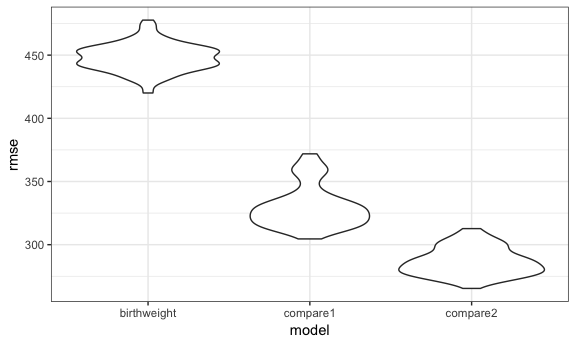
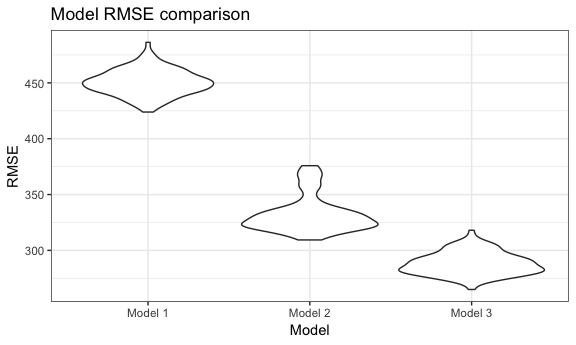
make visual changes and add final comments

diff --git a/p8105_hw6_dry2115.md b/p8105_hw6_dry2115.md
@@ -1,11 +1,13 @@
 p8105\_hw5\_dry2115
 ================
 Dayoung Yu
-2018-11-26
+2018-11-27
 
 ### Problem 1
 
-Read in and clean *Washington Post* homicide data:
+This problem looks at homicide data across 50 major U.S. cities. Mainly, we will be looking at comparisons between homicides of white victims versus non-white vicitims.
+
+##### Read in and clean *Washington Post* homicide data:
 
 ``` r
 homicide_df = 
@@ -17,36 +19,22 @@ homicide_df =
       disposition == "Open/No arrest"        ~ "unresolved",
       disposition == "Closed by arrest"      ~ "resolved"),
     victim_race = case_when(
-      victim_race == "White" ~ "white",
-      victim_race != "White" ~ "non-white"),
+      victim_race != "White" ~ "nonwhite",
+      victim_race == "White" ~ "white"),
     victim_age = as.numeric(victim_age)
     ) %>%
   filter(!(city_state %in% c("Dallas, TX", "Phoenix, AZ", "Kansas City, MO", "Tulsa, AL")))
-## Parsed with column specification:
-## cols(
-##   uid = col_character(),
-##   reported_date = col_integer(),
-##   victim_last = col_character(),
-##   victim_first = col_character(),
-##   victim_race = col_character(),
-##   victim_age = col_integer(),
-##   victim_sex = col_character(),
-##   city = col_character(),
-##   state = col_character(),
-##   lat = col_double(),
-##   lon = col_double(),
-##   disposition = col_character()
-## )
 ```
 
 The data set homicide\_df contains gathered homicide data in 50 large U.S. cities, e.g., victim name and demographics, location, and disposition (whether case was closed and whether there was an arrest). The following changes were made: a new "city, state" variable was created, a new "resolution" variable was created defining whether the case was resolved or unresolved, and the "victim\_race" was categorized as white or non-white. In addition, some cities were omitted due to missing data and error.
 
-Logic regression for Baltimore homicides:
+##### Logic regression for Baltimore homicides:
 
 ``` r
 baltimore_df = homicide_df %>%
   filter(city == "Baltimore") %>%
-  mutate(resolved = as.numeric(resolution == "resolved")) %>%
+  mutate(resolved = as.numeric(resolution == "resolved"),
+         victim_race = fct_relevel(victim_race, "white")) %>%
   select(resolved, victim_age, victim_sex, victim_race)
 
 baltimore_glm = baltimore_df %>%
@@ -66,29 +54,30 @@ ci_baltimore = as.tibble(confint(baltimore_glm)) %>%
 
 
 cbind(or_baltimore, ci_baltimore) %>%
-  filter(term == "victim_racewhite") %>%
-  mutate(term = str_replace(term, "white", ": White")) %>%
+  filter(term == "victim_racenonwhite") %>%
+  mutate(term = str_replace(term, "nonwhite", ": non-white")) %>%
   knitr::kable(digits = 3)
 ```
 
-| term                |  log\_OR|    OR|  ci\_low|  ci\_high|
-|:--------------------|--------:|-----:|--------:|---------:|
-| victim\_race: White |     0.82|  2.27|    1.614|     3.203|
+| term                    |  log\_OR|     OR|  ci\_low|  ci\_high|
+|:------------------------|--------:|------:|--------:|---------:|
+| victim\_race: non-white |    -0.82|  0.441|    0.312|      0.62|
 
-The table above shows the adjusted odds ratio and 95% confidence interval for solving homicides of whites vs. non-whites. Homicide cases of white victims have 2.27 times the odds of being resolved compared to homicide cases of non-white victims in the city of Baltimore.
+The table above shows the adjusted odds ratio and 95% confidence interval for solving homicides of non-white victims vs. white victims. Homicide cases of non-white victims have 0.441 times the odds of being resolved compared to homicide cases of white victims, meaning non-white homicides are less likely to be resolved in the city of Baltimore.
 
-Logic regression by city:
+##### Logic regression by city:
 
 ``` r
 city_glm = homicide_df %>%
-  mutate(resolved = as.numeric(resolution == "resolved")) %>%
+  mutate(resolved = as.numeric(resolution == "resolved"),
+         victim_race = fct_relevel(victim_race, "white")) %>%
   group_by(city_state) %>%
   nest() %>%
   mutate(models = map(data, ~glm(resolved ~ victim_age + victim_sex + victim_race, data = ., family = binomial())),
          models = map(models, broom::tidy)) %>%
   select(-data) %>%
   unnest() %>%
-  filter(term == "victim_racewhite") %>%
+  filter(term == "victim_racenonwhite") %>%
   mutate(OR = exp(estimate),
          ci_low = exp(estimate - 1.96*std.error),
          ci_high = exp(estimate + 1.96*std.error)) %>%
@@ -96,7 +85,7 @@ city_glm = homicide_df %>%
   
 ```
 
-plot of ORs and CIs for each city
+##### Plot of ORs and CIs for each city:
 
 ``` r
 
@@ -105,9 +94,10 @@ city_glm %>%
   ggplot(aes(x = city_state, y = OR)) +
   geom_point() +
   geom_errorbar(aes(ymin = ci_low, ymax = ci_high)) +
+  geom_hline(yintercept = 1, color = "red") +
    theme(axis.text.x = element_text(angle = 80, hjust = 1)) +
   labs(
-    title = "Odds ratios for solving homicides in white vs. non-white victims",
+    title = "Odds ratios for solving homicides in non-white vs. white victims",
     x = "City, State",
     y = "Estimated odds ratio"
   )
@@ -115,11 +105,13 @@ city_glm %>%
 
 <img src="p8105_hw6_dry2115_files/figure-markdown_github/unnamed-chunk-4-1.png" width="90%" />
 
-The plot above shows odds ratios and their confidence levels for solving homicides for white vs. non-white victims in 50 major U.S. cities. We can see that all odss ratios and confidence intervals are above zero, meaning that white victims have better odds of having a resolved case than non-white victims in all 50 major cities. The difference in odds between white and non-white victims is highest in Boston, but the confidence interval is also the widest meaning there is greater variance.
+The plot above shows odds ratios and their confidence levels for solving homicides for non-white vs. white victims in 50 major U.S. cities. We can see that odss ratios for all cities except Durham, Birmingham, and Tampa are below 1, meaning that white victims have better odds of having a resolved case than non-white victims in most major U.S. cities. However, about half of the cities contain 1 in their 95% confidence intervals, indicating that for about 50% of the time, there may be no significant difference between solving homicide cases of non-whites versus whites.
 
 ### Problem 2
 
-Read and clean data:
+This problem looks at birthweight data to estimate and create models for low birth weight.
+
+##### Read and clean data:
 
 ``` r
 birthweight_df = 
@@ -140,70 +132,17 @@ birthweight_df =
 
 Variables *babysex*, *frace*, *malform*, and *mrace* were converted from integer to factor type.
 
-Check for missing values:
+##### Check for missing values and data distribution:
 
 ``` r
 skimr::skim(birthweight_df) 
-## Skim summary statistics
-##  n obs: 4342 
-##  n variables: 20 
-## 
-## ── Variable type:factor ──────────────────────────────────────────────────────────────────────────────────────────────
-##  variable missing complete    n n_unique                      top_counts
-##   babysex       0     4342 4342        2         1: 2230, 2: 2112, NA: 0
-##     frace       0     4342 4342        5 1: 2123, 2: 1911, 4: 248, 3: 46
-##   malform       0     4342 4342        2           0: 4327, 1: 15, NA: 0
-##     mrace       0     4342 4342        4 1: 2147, 2: 1909, 4: 243, 3: 43
-##  ordered
-##    FALSE
-##    FALSE
-##    FALSE
-##    FALSE
-## 
-## ── Variable type:integer ─────────────────────────────────────────────────────────────────────────────────────────────
-##  variable missing complete    n      mean     sd  p0  p25    p50  p75 p100
-##     bhead       0     4342 4342   33.65     1.62  21   33   34     35   41
-##   blength       0     4342 4342   49.75     2.72  20   48   50     51   63
-##       bwt       0     4342 4342 3114.4    512.15 595 2807 3132.5 3459 4791
-##     delwt       0     4342 4342  145.57    22.21  86  131  143    157  334
-##   fincome       0     4342 4342   44.11    25.98   0   25   35     65   96
-##  menarche       0     4342 4342   12.51     1.48   0   12   12     13   19
-##   mheight       0     4342 4342   63.49     2.66  48   62   63     65   77
-##    momage       0     4342 4342   20.3      3.88  12   18   20     22   44
-##    parity       0     4342 4342    0.0023   0.1    0    0    0      0    6
-##   pnumlbw       0     4342 4342    0        0      0    0    0      0    0
-##   pnumsga       0     4342 4342    0        0      0    0    0      0    0
-##      ppwt       0     4342 4342  123.49    20.16  70  110  120    134  287
-##    wtgain       0     4342 4342   22.08    10.94 -46   15   22     28   89
-##      hist
-##  ▁▁▁▁▅▇▁▁
-##  ▁▁▁▁▁▇▁▁
-##  ▁▁▁▃▇▇▂▁
-##  ▁▇▅▁▁▁▁▁
-##  ▁▂▇▂▂▂▁▃
-##  ▁▁▁▁▂▇▁▁
-##  ▁▁▁▅▇▂▁▁
-##  ▂▇▅▂▁▁▁▁
-##  ▇▁▁▁▁▁▁▁
-##  ▁▁▁▇▁▁▁▁
-##  ▁▁▁▇▁▁▁▁
-##  ▁▇▆▁▁▁▁▁
-##  ▁▁▁▇▇▁▁▁
-## 
-## ── Variable type:numeric ─────────────────────────────────────────────────────────────────────────────────────────────
-##  variable missing complete    n  mean   sd    p0   p25   p50   p75 p100
-##   gaweeks       0     4342 4342 39.43 3.15 17.7  38.3  39.9  41.1  51.3
-##     ppbmi       0     4342 4342 21.57 3.18 13.07 19.53 21.03 22.91 46.1
-##    smoken       0     4342 4342  4.15 7.41  0     0     0     5    60  
-##      hist
-##  ▁▁▁▁▃▇▁▁
-##  ▁▇▅▁▁▁▁▁
-##  ▇▁▁▁▁▁▁▁
 ```
 
-The data set had no missing values
+The data set had no missing values, birthweight seems normally distributed.
 
-Create model for birth weight: Predictors were chosen based on results of a study identifying significant risk factors for low birth weight. The study can be found here: <https://www.ncbi.nlm.nih.gov/pmc/articles/PMC4456878/>
+##### Create model for birth weight:
+
+Predictors (mother's weight at delivery, mother's age at delivery, and gestational age) were chosen based on results of a study identifying significant risk factors for low birth weight. The study can be found here: <https://www.ncbi.nlm.nih.gov/pmc/articles/PMC4456878/>
 
 ``` r
 birthweight_lm = lm(bwt ~ delwt + momage + gaweeks, data = birthweight_df)
@@ -220,13 +159,22 @@ birthweight_lm %>% broom::tidy()
 birthweight_df %>%
   modelr::add_residuals(birthweight_lm) %>%
   modelr::add_predictions(birthweight_lm) %>%
-  ggplot(aes(x = resid, y = pred)) +
-  geom_point() 
+  ggplot(aes(x = pred, y = resid)) +
+  geom_point(alpha = 0.3) + 
+  geom_smooth(se = FALSE) +
+  labs(
+    title = "Fitted values vs. residuals",
+    x = "Fitted Values",
+    y = "Residuals"
+  ) 
+## `geom_smooth()` using method = 'gam' and formula 'y ~ s(x, bs = "cs")'
 ```
 
 <img src="p8105_hw6_dry2115_files/figure-markdown_github/unnamed-chunk-7-1.png" width="90%" />
 
-compare with other models
+The plot illustrates residuals plotted against predictive values of birthweight. The residuals are mostly symmetrically distributed. However, the curve indicates that there is higher variance for lower birthweights, thus there is low predictive accuracy in our model as weight decreases.
+
+###### Compare with other models:
 
 ``` r
 compare_lm1 = lm(bwt ~ blength + gaweeks, data = birthweight_df)
@@ -236,7 +184,7 @@ compare_lm2 = lm(bwt ~ bhead + blength + babysex +
                       bhead*blength*babysex, data = birthweight_df)
 ```
 
-cross validation
+##### Perform cross validation:
 
 ``` r
 cv_df = crossv_mc(birthweight_df, 100)
@@ -255,15 +203,40 @@ cv_df =
   
 ```
 
-plot prediction error distribution for each candidate model
+##### Plot prediction error distribution for each candidate model:
 
 ``` r
 cv_df %>% 
   select(starts_with("rmse")) %>% 
   gather(key = model, value = rmse) %>% 
   mutate(model = str_replace(model, "rmse_", ""),
-         model = fct_inorder(model)) %>% 
-  ggplot(aes(x = model, y = rmse)) + geom_violin()
+         model = fct_inorder(model),
+         model = recode(model, "birthweight" = "Model 1", "compare1" = "Model 2", "compare2" = "Model 3")) %>% 
+  ggplot(aes(x = model, y = rmse)) + 
+  geom_violin() +
+    labs(
+    title = "Model RMSE comparison ",
+    x = "Model",
+    y = "RMSE"
+  )
 ```
 
 <img src="p8105_hw6_dry2115_files/figure-markdown_github/unnamed-chunk-10-1.png" width="90%" />
+
+``` r
+
+tibble(
+  Model = 1:3,
+  Predictors = c("bwt ~ delwt + momage + gaweeks",
+                 "bwt ~ blength + gaweeks",
+                 "bwt ~ bhead + blength + babysex + interactions")
+) %>% knitr::kable()
+```
+
+|  Model| Predictors                                     |
+|------:|:-----------------------------------------------|
+|      1| bwt ~ delwt + momage + gaweeks                 |
+|      2| bwt ~ blength + gaweeks                        |
+|      3| bwt ~ bhead + blength + babysex + interactions |
+
+The violin plot above indicates that Model 1, which is the estimate model using risk factors identified by a previous study, has highest RMSE and therefore, the least predictive accuracy. Even though the study tested many of the variables listed in our birthweight dataset and found them insignificant, the model comparison illustrates that baby's head circumference, length, sex, and their interactions should be included in the model for more accurate birthweight prediction. Thus, based on RMSE, Model 3 should be chosen.
